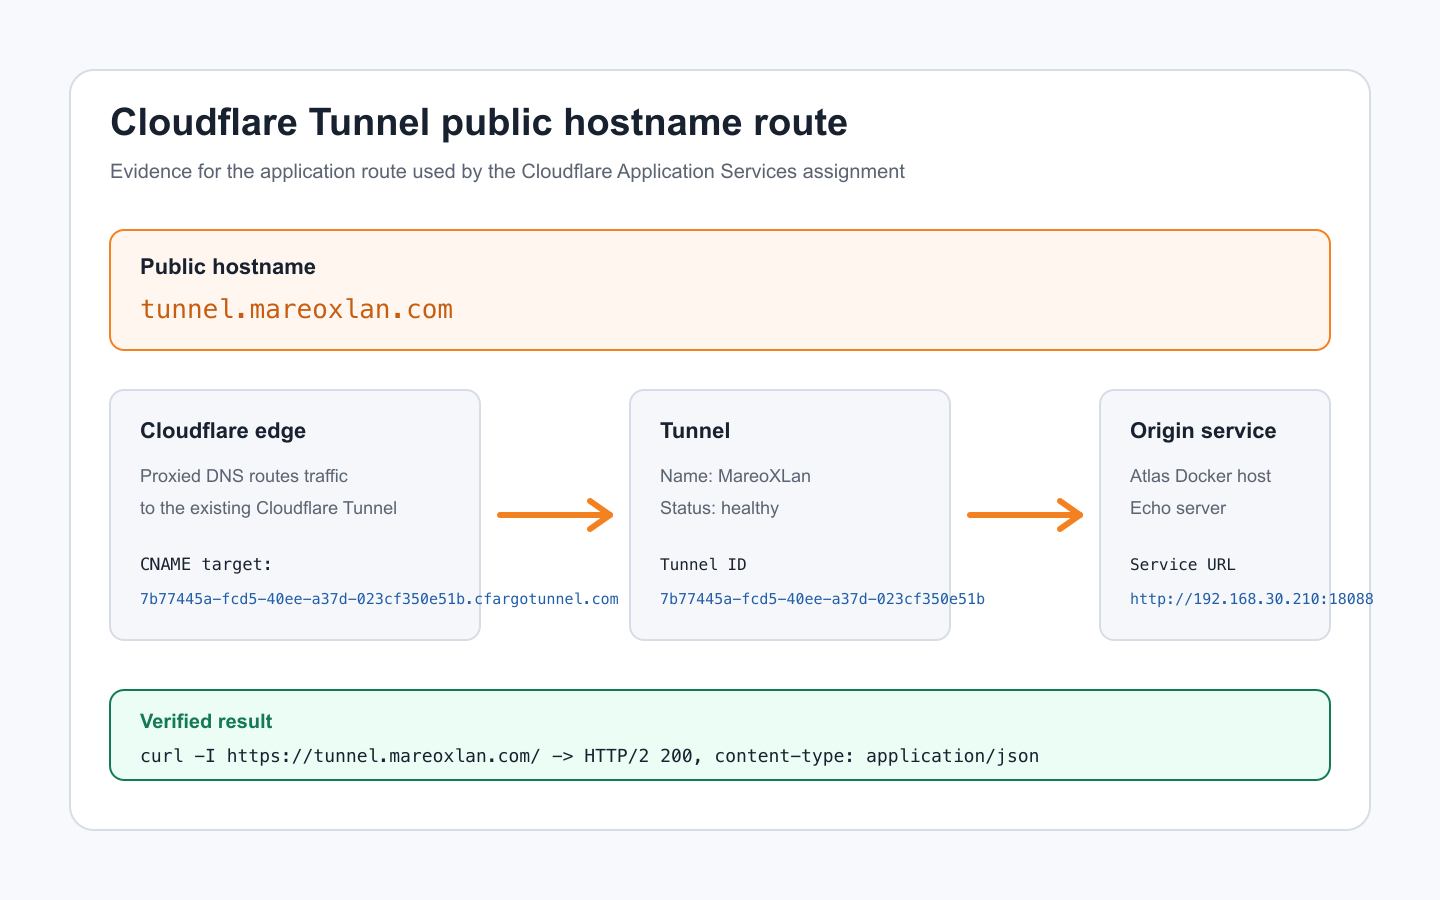
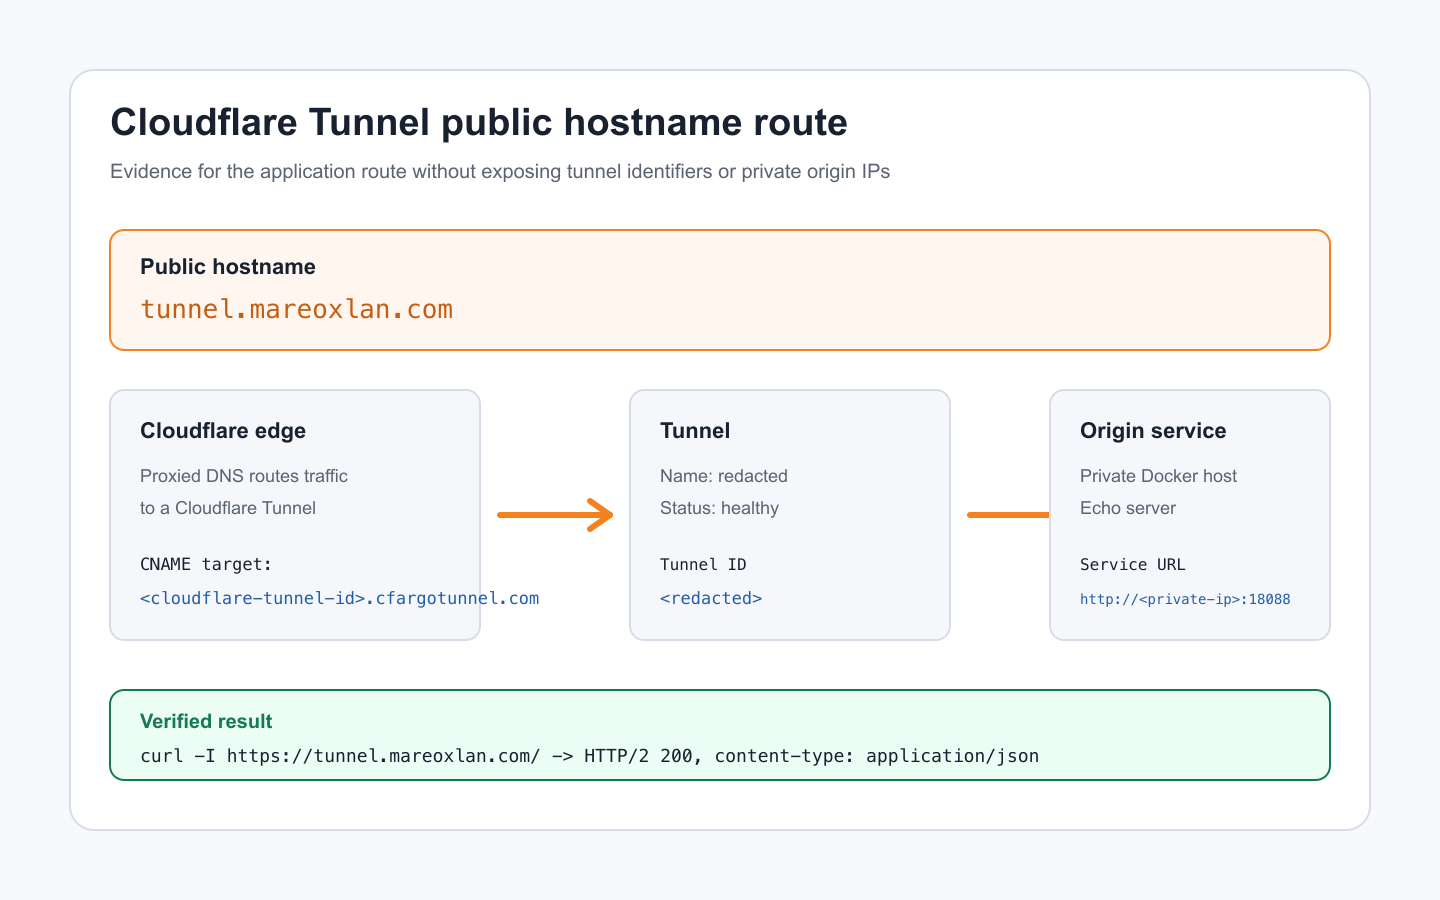
Redact internal route identifiers
The public report still explains the Cloudflare Tunnel route, but no longer publishes the tunnel UUID, internal tunnel name, or private origin address in text or the route evidence image.

Constraint: Public assignment evidence should prove the design without exposing unnecessary reconnaissance details.

Confidence: high

Scope-risk: narrow

Tested: rg confirmed the exact tunnel UUID, tunnel name, and private origin IP are absent; git diff --check.

diff --git a/docs/index.html b/docs/index.html
@@ -356,7 +356,7 @@
           </article>
           <article class="step">
             <h3>Deployed the origin server</h3>
-            <p>Ran a Flask and gunicorn header echo service on Atlas at <code>192.168.30.210:18088</code>. The origin exposes <code>/healthz</code> and returns request data as JSON.</p>
+            <p>Ran a Flask and gunicorn header echo service on a private homelab Docker host at <code>http://&lt;private-origin-ip&gt;:18088</code>. The origin exposes <code>/healthz</code> and returns request data as JSON.</p>
           </article>
           <article class="step">
             <h3>Enabled Full Strict TLS</h3>
@@ -364,7 +364,7 @@
           </article>
           <article class="step">
             <h3>Moved traffic behind Cloudflare Tunnel</h3>
-            <p>Added a Tunnel public hostname mapping <code>tunnel.mareoxlan.com</code> to <code>http://192.168.30.210:18088</code>, removing the need for inbound public firewall exposure.</p>
+            <p>Added a Tunnel public hostname mapping <code>tunnel.mareoxlan.com</code> to <code>http://&lt;private-origin-ip&gt;:18088</code>, removing the need for inbound public firewall exposure.</p>
           </article>
           <article class="step">
             <h3>Protected <code>/secure*</code> with Access</h3>

diff --git a/docs/REPORT.md b/docs/REPORT.md
@@ -24,7 +24,7 @@ Reviewer access:
 The domain `mareoxlan.com` is active in Cloudflare. A proxied CNAME was created for:
 
 ```text
-tunnel.mareoxlan.com -> 7b77445a-fcd5-40ee-a37d-023cf350e51b.cfargotunnel.com
+tunnel.mareoxlan.com -> <cloudflare-tunnel-id>.cfargotunnel.com
 ```
 
 Evidence:
@@ -40,7 +40,7 @@ A small Flask origin server was deployed on the homelab Docker host Atlas. It re
 The origin runs at:
 
 ```text
-http://192.168.30.210:18088
+http://<private-origin-ip>:18088
 ```
 
 Local health check:
@@ -73,11 +73,11 @@ Evidence:
 
 ### 2.4 Cloudflare Tunnel
 
-The existing `MareoXLan` tunnel was reused. A public hostname was added:
+An existing Cloudflare Tunnel was reused. A public hostname was added:
 
 ```yaml
 hostname: tunnel.mareoxlan.com
-service: http://192.168.30.210:18088
+service: http://<private-origin-ip>:18088
 ```
 
 This keeps the origin off the public internet. The origin only needs outbound connectivity to Cloudflare through `cloudflared`.

diff --git a/README.md b/README.md
@@ -111,7 +111,7 @@ curl http://127.0.0.1:8080/healthz
 curl http://127.0.0.1:8080/
 ```
 
-The deployed homelab origin runs on Atlas at `192.168.30.210:18088` and is reached through Cloudflare Tunnel.
+The deployed homelab origin runs on a private Docker host at `http://<private-origin-ip>:18088` and is reached through Cloudflare Tunnel.
 
 ## Reproduce the Worker
 
